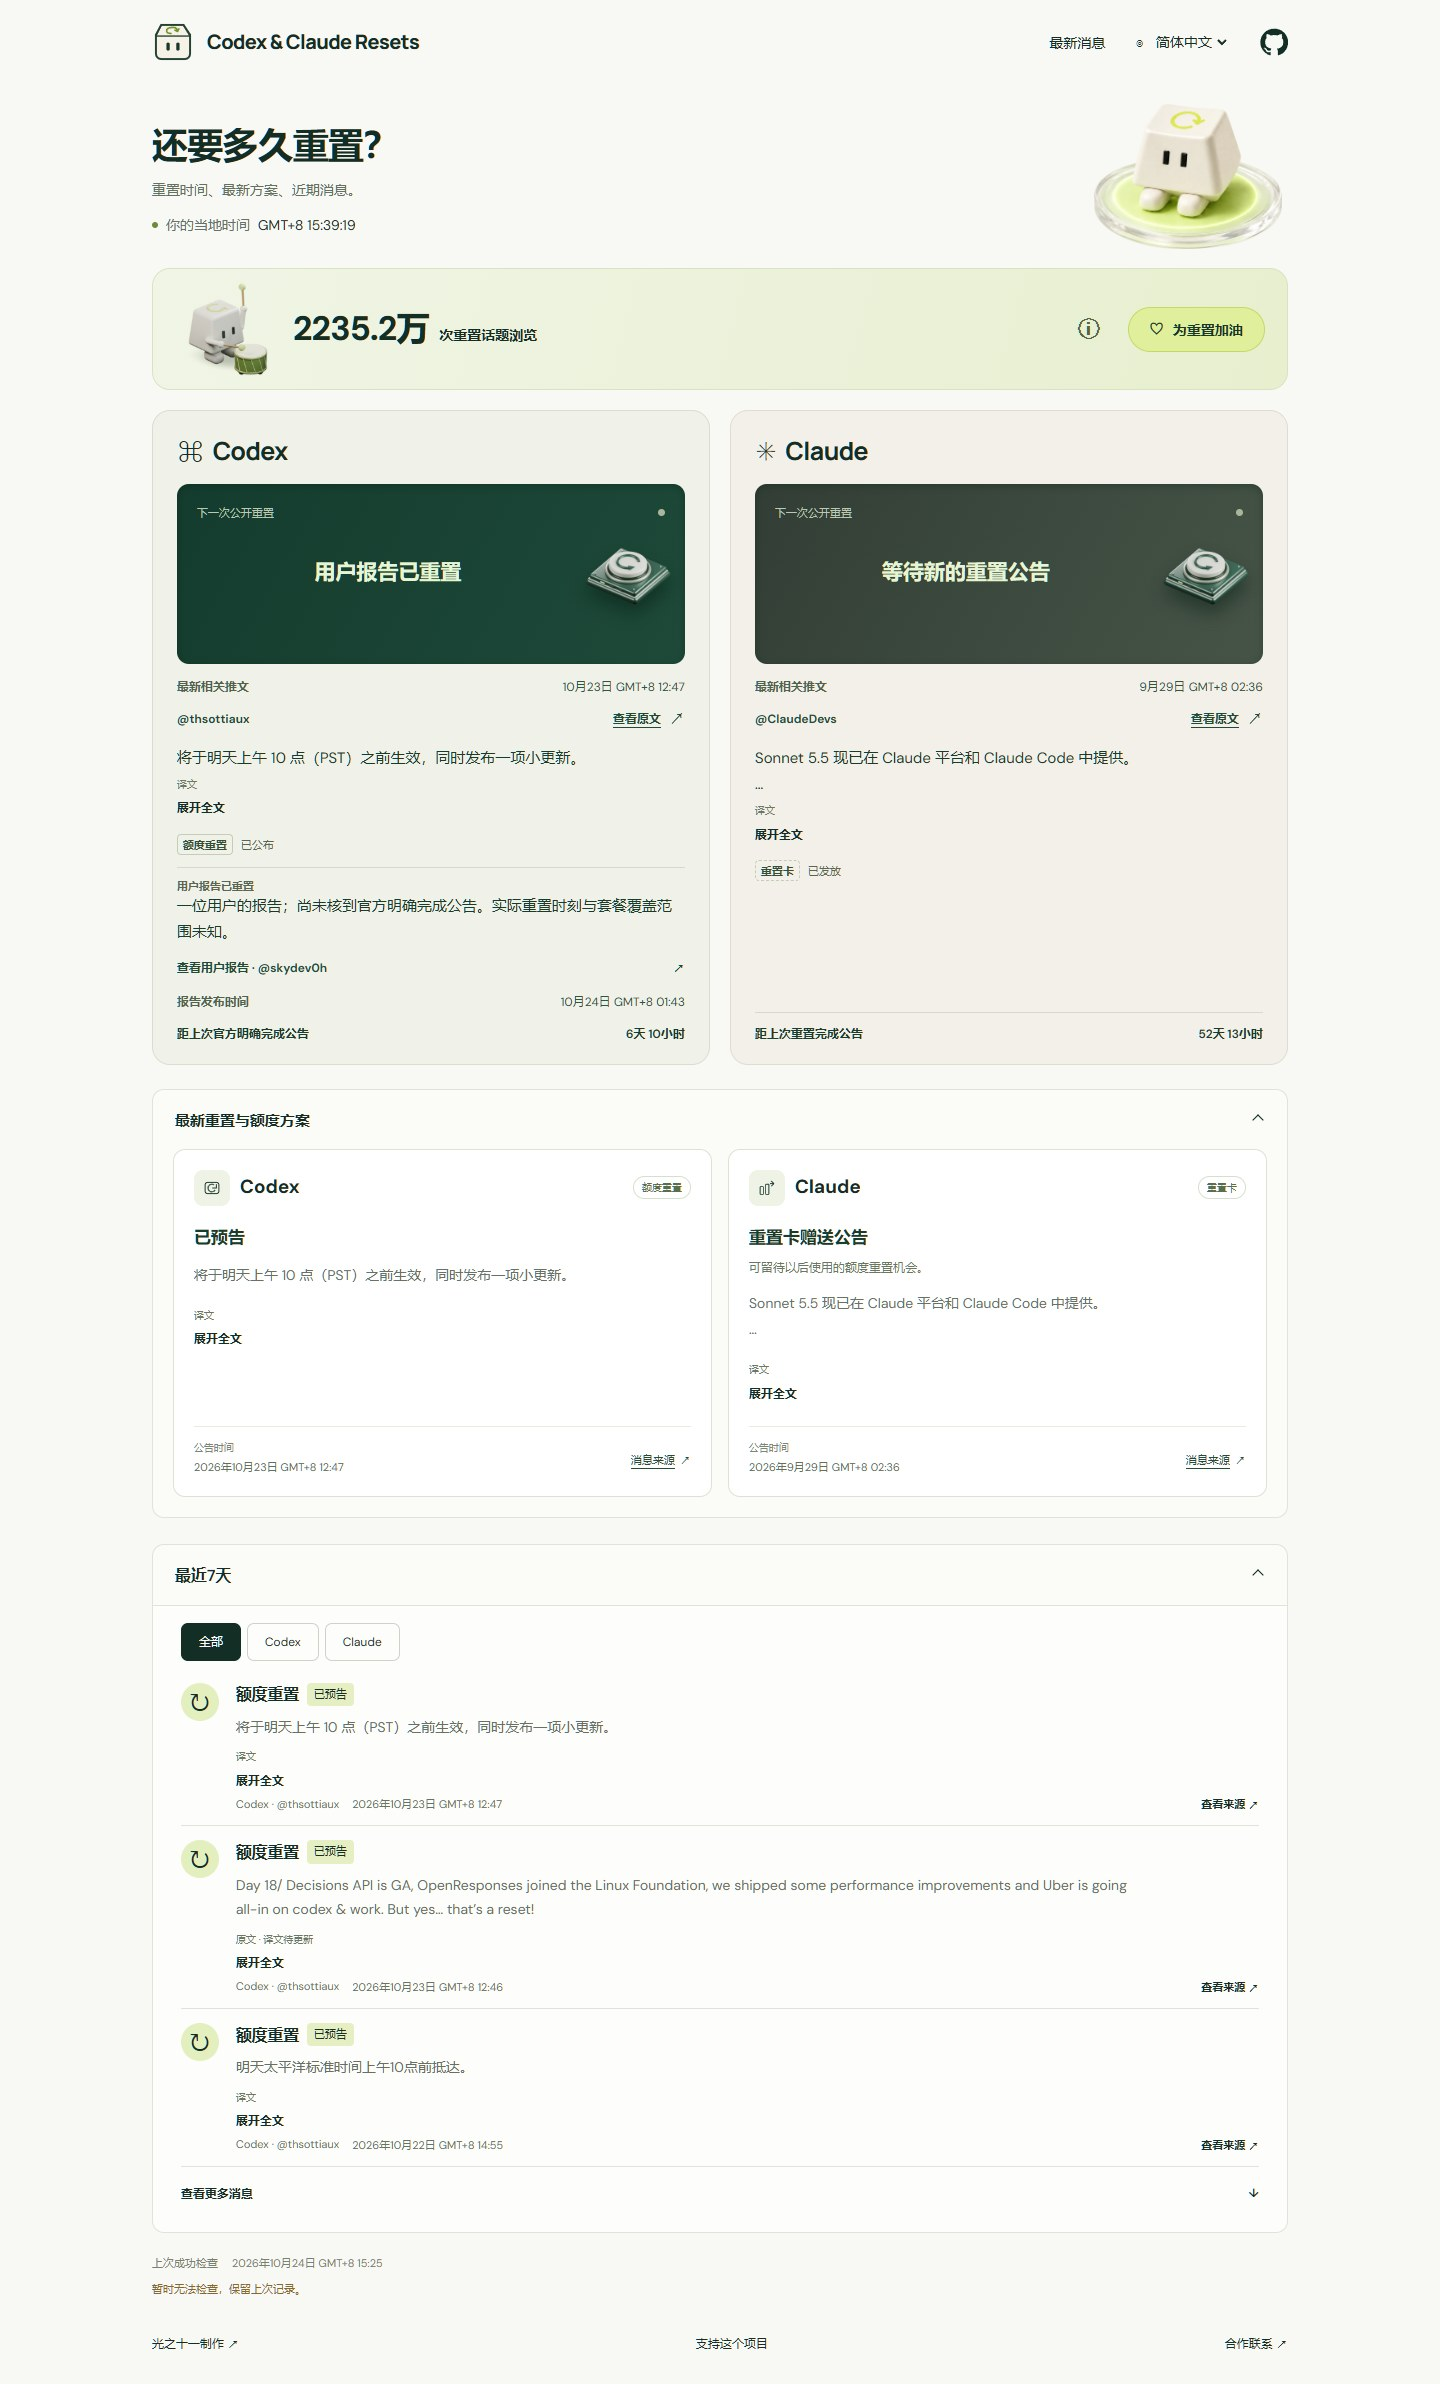
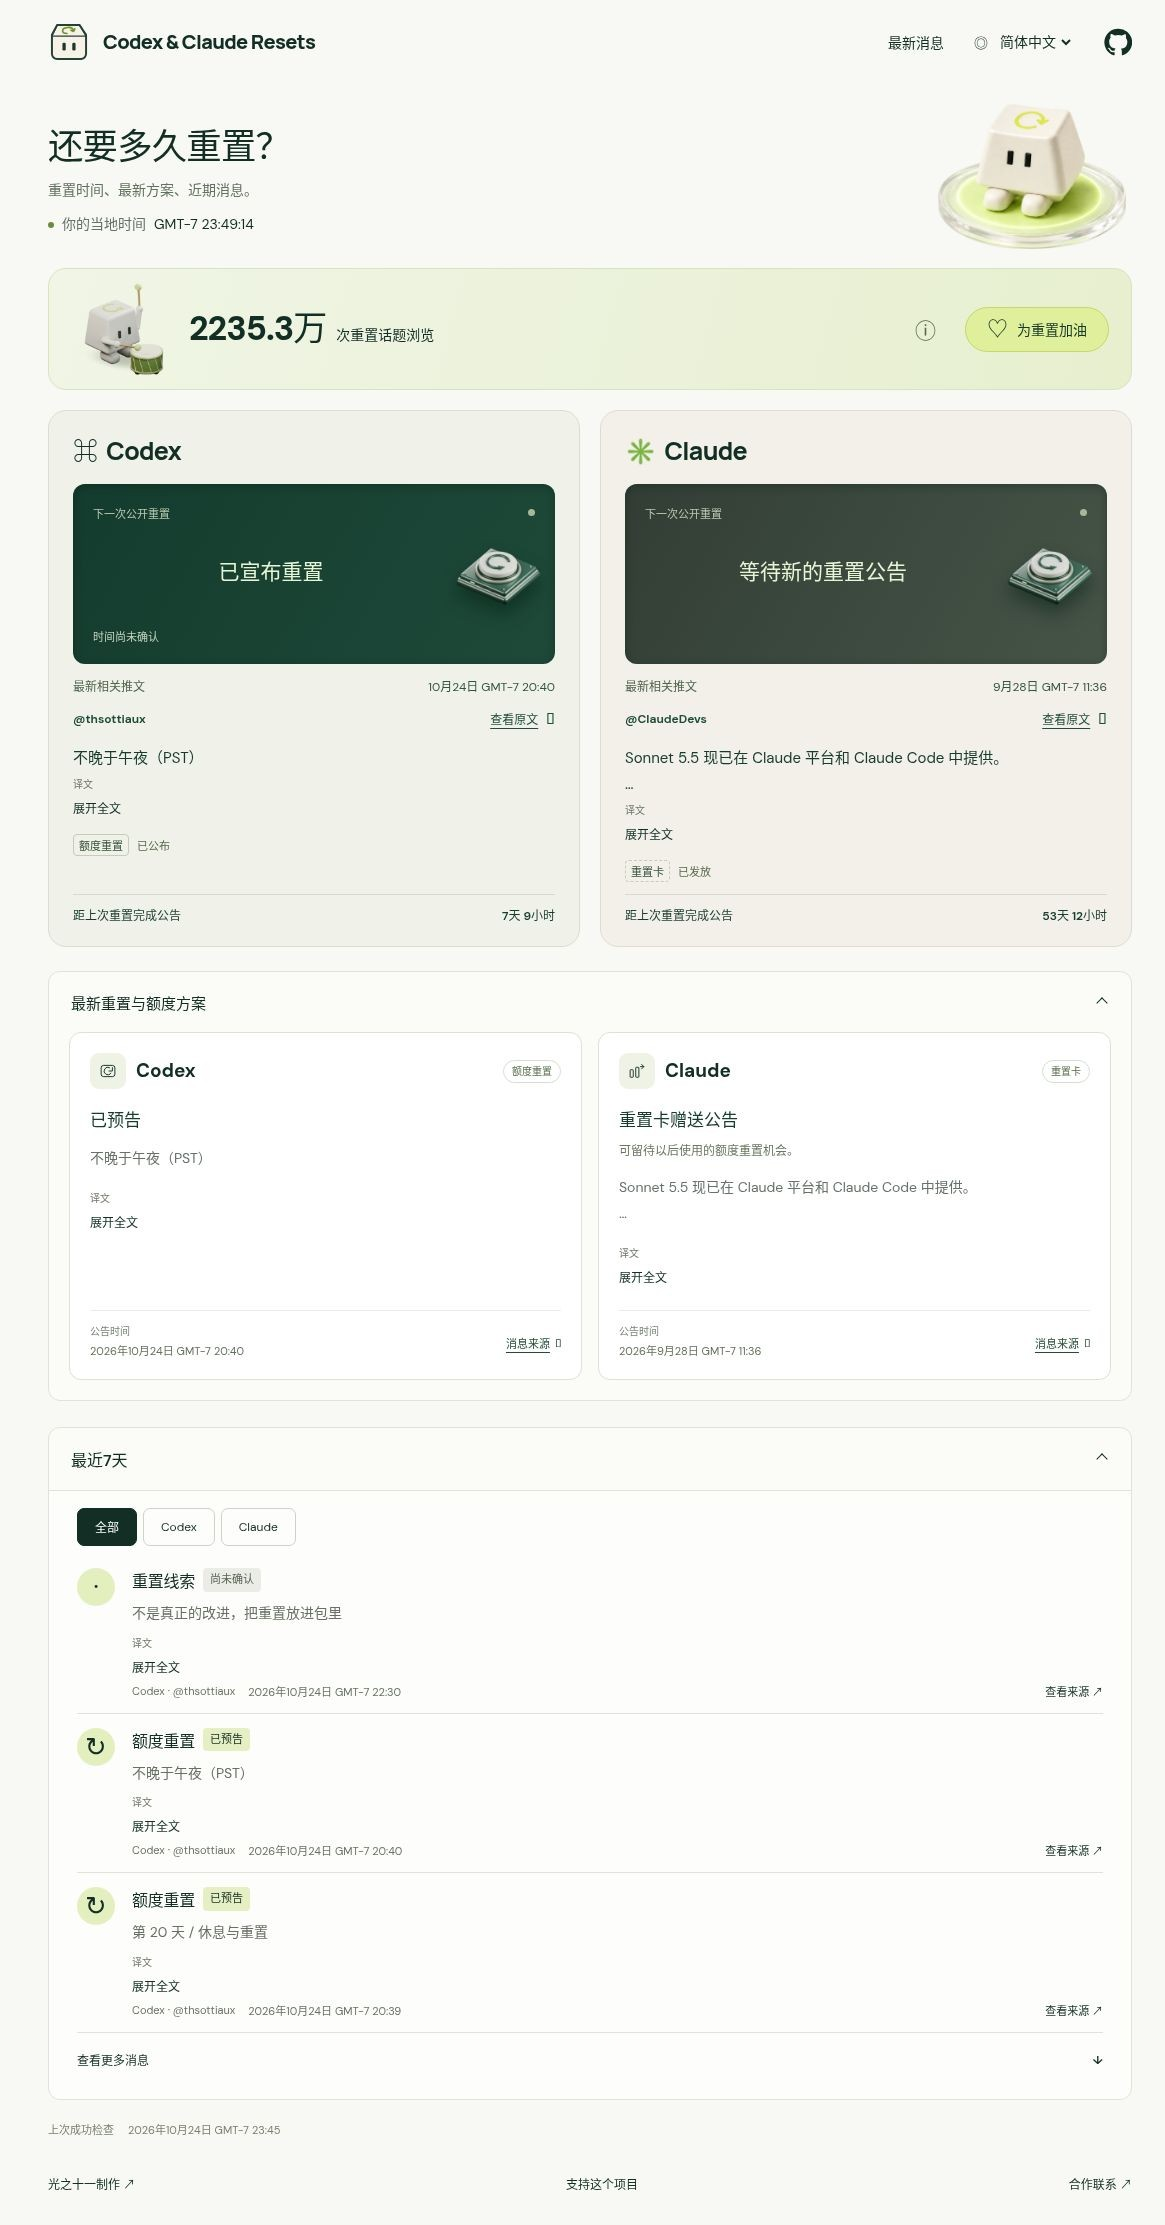
Verify Day 20 production screenshot and isolate historical regression inputs (#37)
* Capture verified Day 20 production and pin regression time horizon

* Link the verified Day 20 production screenshot

diff --git a/README.md b/README.md
@@ -3,7 +3,7 @@
 <p align="center"><strong>Reset times. Sources. History.</strong><br>When do Codex and Claude reset? One page. Your local time.</p>
 <p align="center"><a href="https://shixilin.com/ai/codex-claude-resets/">Open the tracker</a> · <a href="https://shixilin.com/ai/codex-claude-resets/feed.xml">RSS</a> · <a href="https://shixilin.com/ai/codex-claude-resets/events.json">Public JSON</a> · <a href="#简体中文">简体中文</a></p>
 
-![Codex & Claude Resets desktop interface](https://raw.githubusercontent.com/shixi-11/codex-claude-resets/bdc66eb2fe6daa0ed852678843e5579da3aec712/docs/screenshot.jpg)
+![Codex & Claude Resets desktop interface](https://raw.githubusercontent.com/shixi-11/codex-claude-resets/a84563379fcecc1616d3fc00610dc6343752371a/docs/screenshot.jpg)
 
 Codex & Claude Resets puts the next confirmed Codex and Claude reset time first. See the next confirmed time, the latest relevant post with its publication time, and elapsed time since the last reset completion report was published. The latest published reset or credit announcement and the current Claude usage promotion appear before recent source posts. Sections are expanded by default.
 
